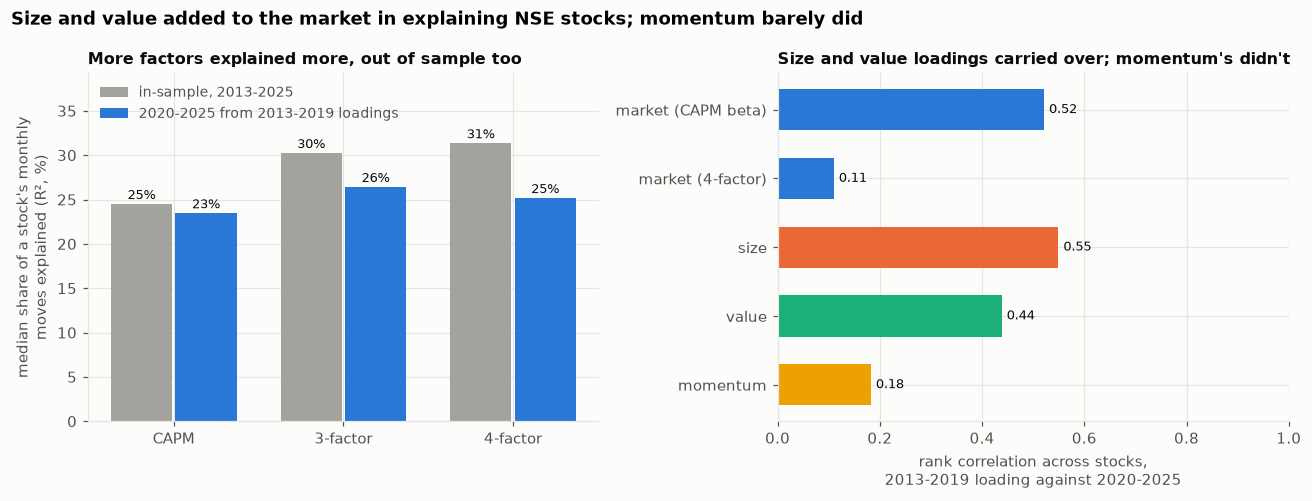
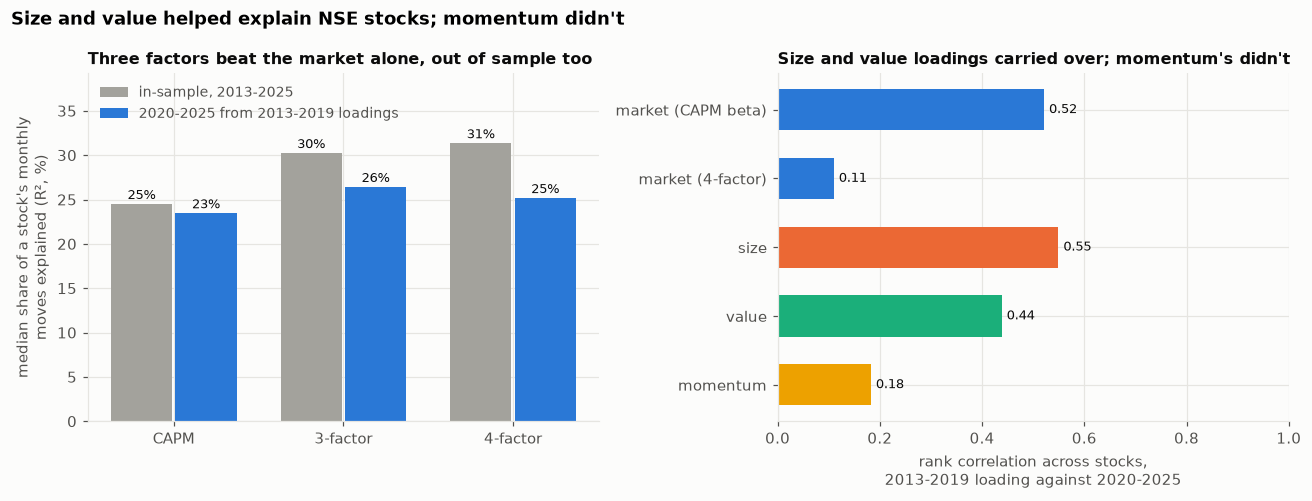
fix: wrap a long line and regenerate the stocks chart with its corrected titles

Changed region(s): [[0.125, 0.0, 0.6562, 0.0599], [0.0625, 0.0898, 0.4688, 0.1497]]

diff --git a/src/ff/reports.py b/src/ff/reports.py
@@ -263,7 +263,8 @@ def report_stocks(out_dir: Path) -> dict:
     ax.set_ylabel("median share of a stock's monthly\nmoves explained (R², %)")
     ax.legend(frameon=False, fontsize=9, loc="upper left")
     ax.margins(y=0.25)
-    ax.set_title("Three factors beat the market alone, out of sample too", fontsize=10.5, loc="left")
+    ax.set_title("Three factors beat the market alone, out of sample too", fontsize=10.5,
+                 loc="left")
     ax = axes[1]
     labs = list(stab)
     y = np.arange(len(labs))[::-1]
